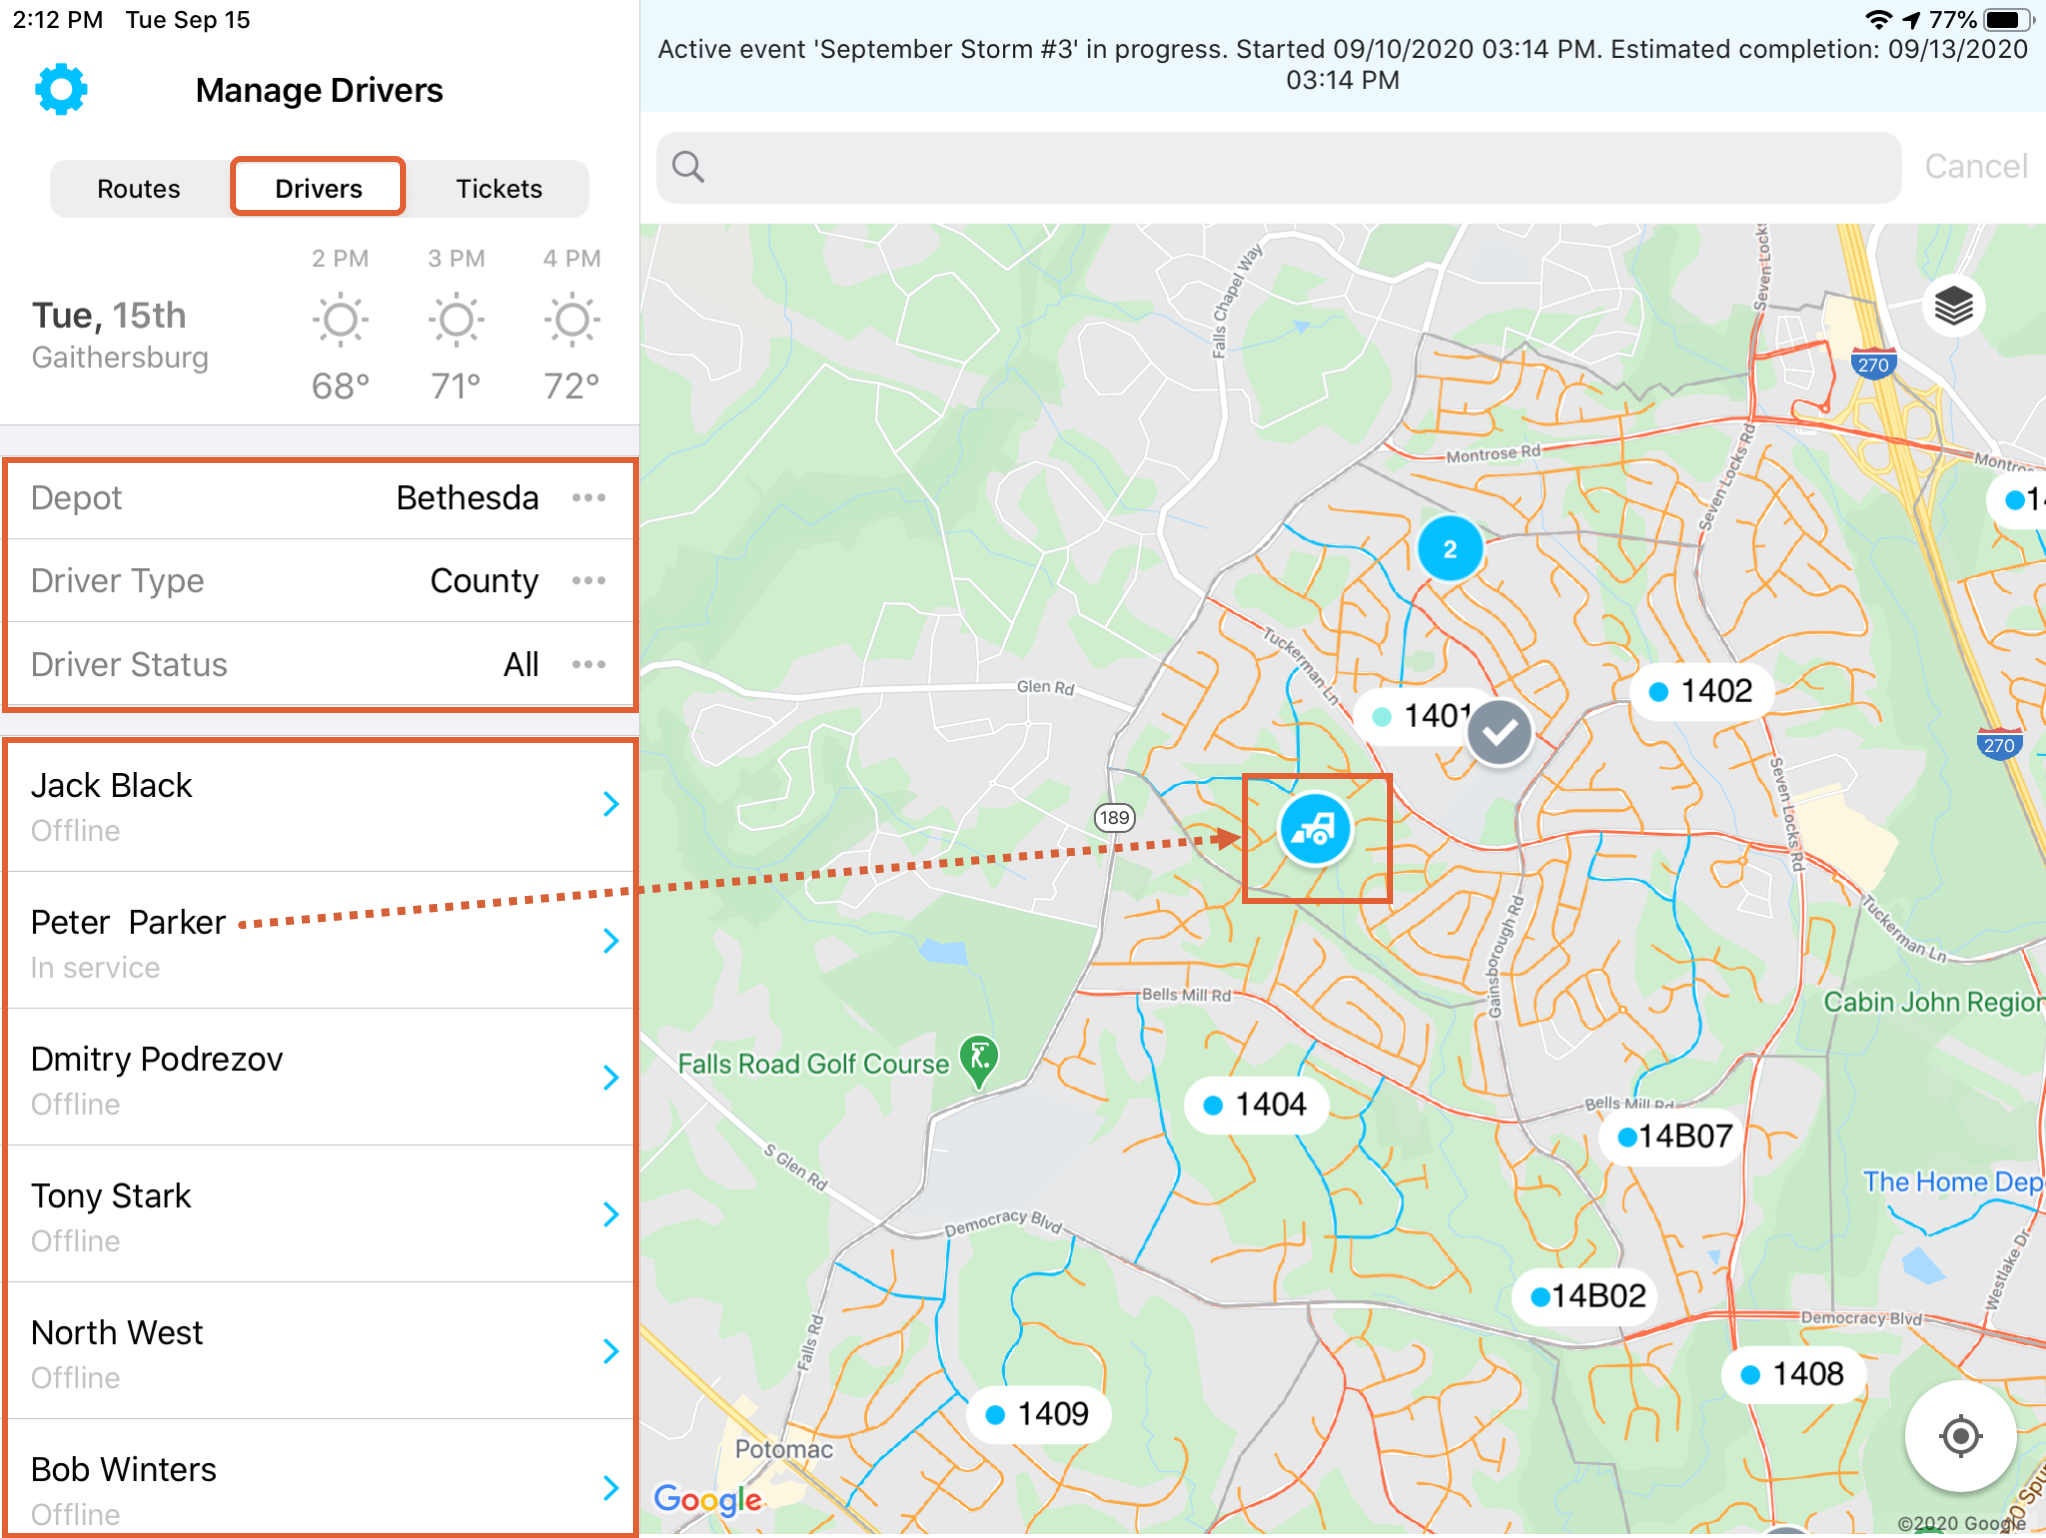
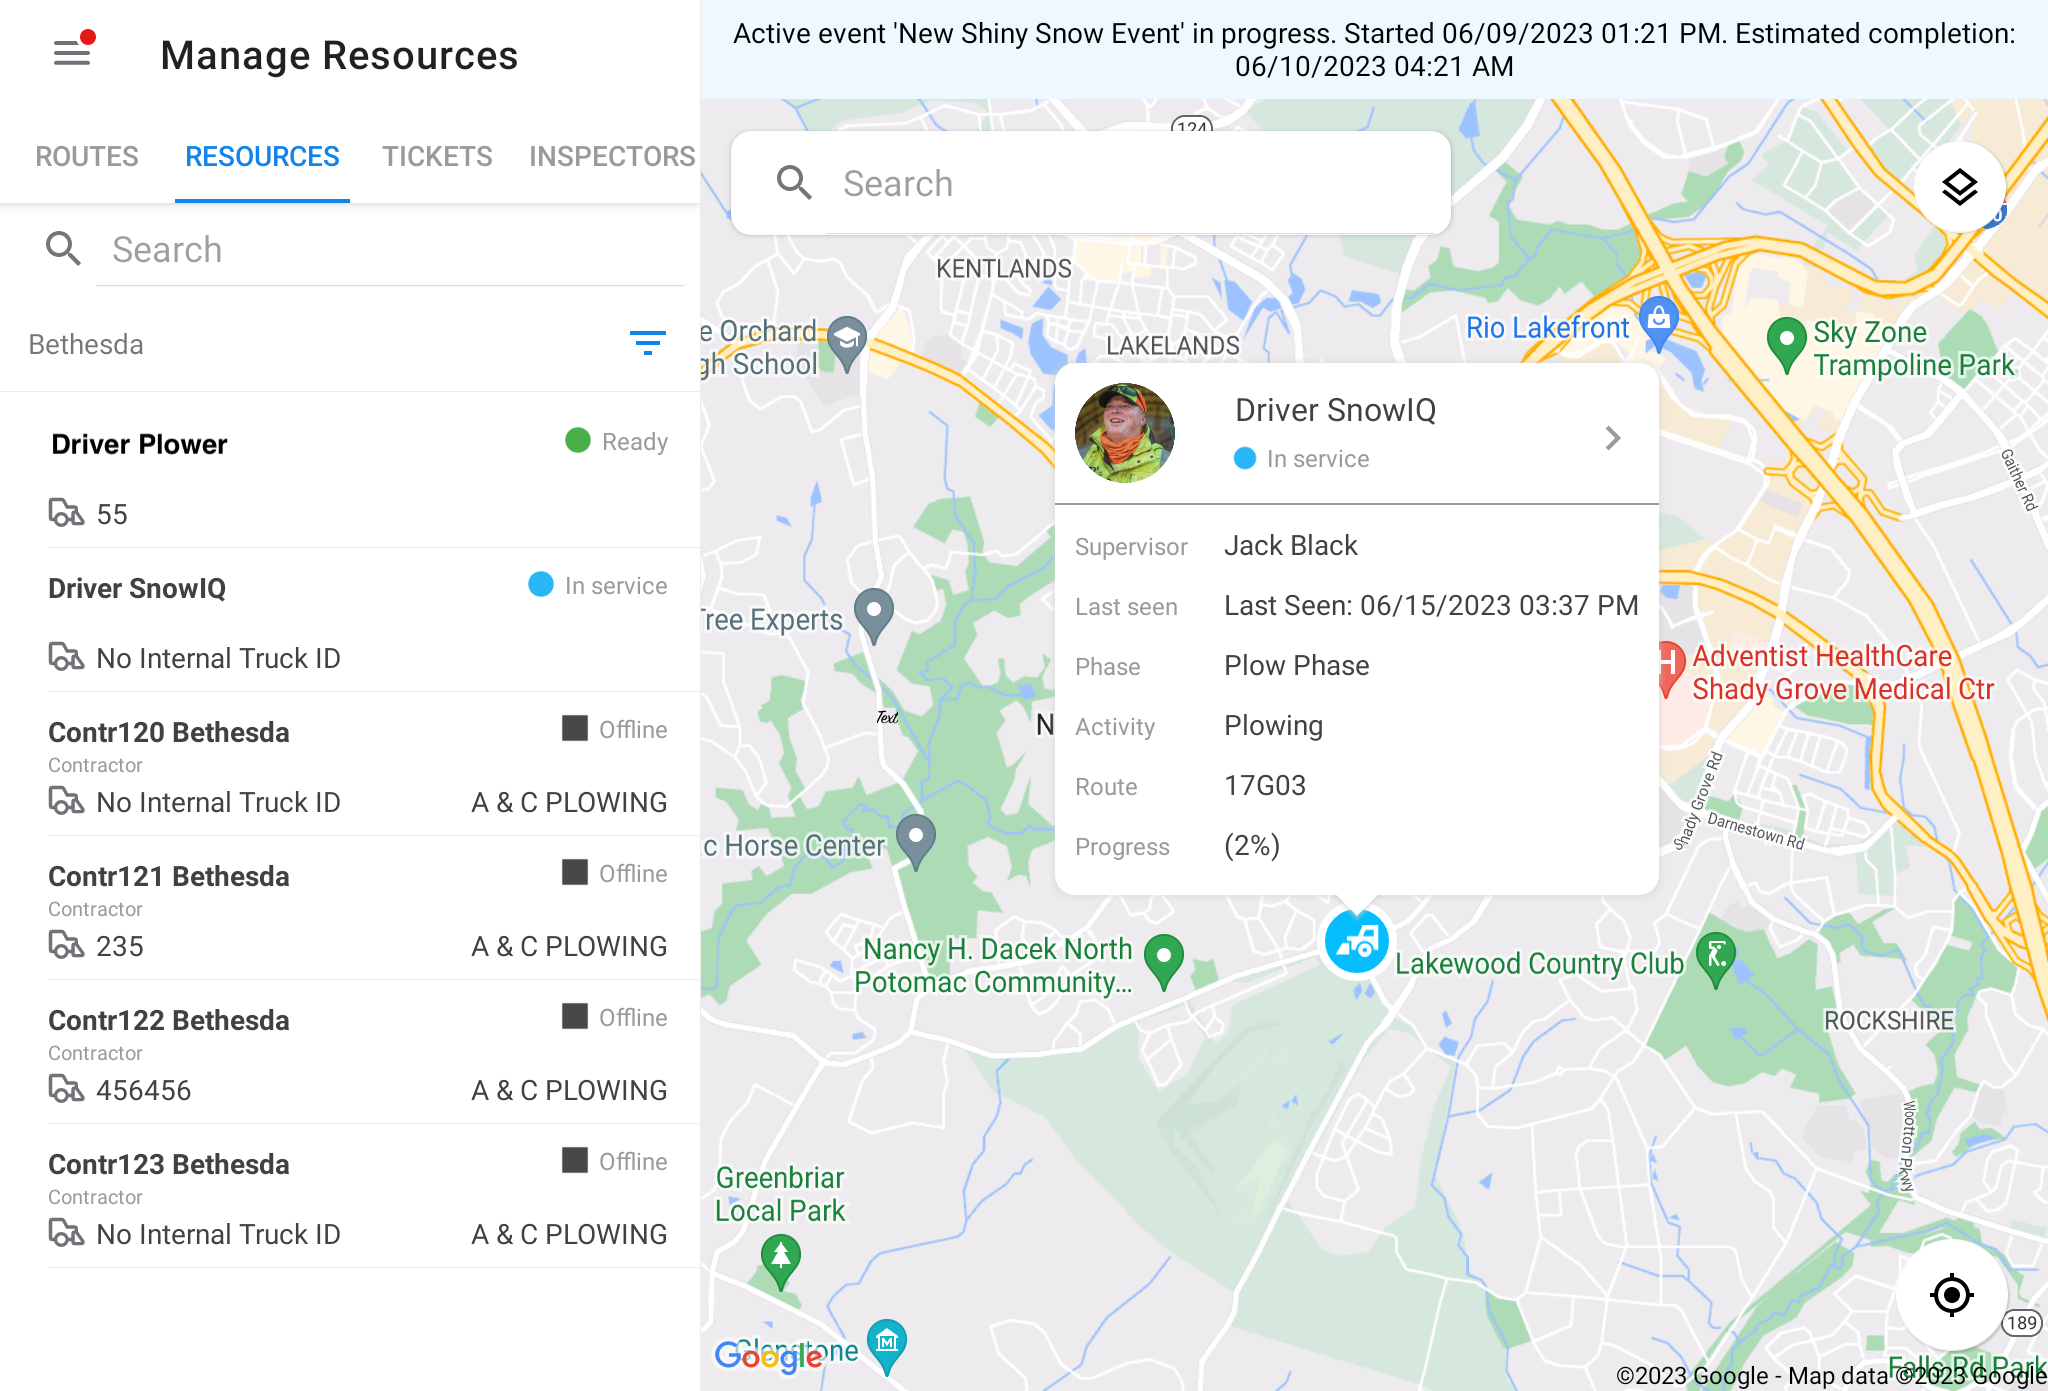
sa_tickets_tab

diff --git a/sa-drivers-tab-view.md b/sa-drivers-tab-view.md
@@ -1,6 +1,6 @@
 ---
 layout: page
-title: Drivers Tab View
+title: Resources Tab View
 author: EastBanc Technologies
 name: EastBanc Technologies
 email: contact@eastbanctech.com
@@ -9,21 +9,18 @@ nav_order: 5
 platform: true
 comments: true
 ---
-<section id="Drivers-Tab-View" markdown="1">
-# Driver's Tab View
+<section id="Resources-Tab-View" markdown="1">
+# Resources Tab View
 
-The Drivers panel displays a list of drivers active in the system with their names and current statuses. The driver marker is displayed on the map (color coded based on status). Above the list there is a set of filters: by Depot, Route Type, and Route Status. Pressing on the name of the driver in the panel on the left takes the user to the [Driver Details](#Driver-Details)
+The Resources panel displays a list of resources active in the system with their names and current statuses. The driver marker is displayed on the map (color coded based on status). Above the list there is a set of filters: by Depot, Route Type, and Route Status. Pressing on the name of the driver in the panel on the left takes the user to the [Driver Details](#Driver-Details)
 
 <img src="images/supervisor/sa-drivers-tab-view/drivers-tab-android.png" class="android" data-lightbox="1" />
 <img src="images/supervisor/sa-drivers-tab-view/drivers-tab-ios.png" class="ios" data-lightbox="2" />
 
-Pressing on the driver marker on the map (the snowplow icon) produces a prompt on the map with additional driver details, as seen below. Pressing on the name in the prompt takes the user to the **Driver Details panel**
+Pressing on the Resource marker on the map (the snowplow icon) produces a prompt on the map with additional Resource details, as seen below. Pressing on the name in the prompt takes the user to the **Resource Details panel**
 
-<img src="images/supervisor/sa-drivers-tab-view/drivers-tab1-android.png" class="android" data-lightbox="3" />
-<img src="images/supervisor/sa-drivers-tab-view/drivers-tab1-ios.png" class="ios" data-lightbox="4" />
-
-<section id="Drivers-Filters" markdown="1">
-## Drivers Filters
+<section id="Resources-Filters" markdown="1">
+## Resources Filters
 
 Using the filters above the drivers list allows users to narrow down what is seen on the map. Setting a filter can add or remove map elements such as driver types or drivers with different statuses. The filters and their options are listed below:
 
@@ -33,19 +30,19 @@ Using the filters above the drivers list allows users to narrow down what is see
 The depot filter defaults to the depot the Supervisor is assigned to and only the drivers associated with that depot will be displayed. 
 </section>
 
-<section id="Driver-Type" markdown="1">
-### Driver Type
+<section id="Resource-Type" markdown="1">
+### Resource Type
 
 The Route Type filter allows users to filter by County or Contractor employees. County employees can be found on the map with a circular snowplow marker <img src="images/supervisor/sa-drivers-tab-view/driver-logo-android.png" class="android" style="min-width:18px; width:18px; border:none;"/><img src="images/supervisor/sa-drivers-tab-view/driver-logo-ios.png" class="ios" style="min-width:18px; width:18px; border:none;"/> while contractors will be found with a square marker <img src="images/supervisor/sa-drivers-tab-view/driver-logo1-android.png" class="android" style="min-width:18px; width:18px; border:none;"/><img src="images/supervisor/sa-drivers-tab-view/driver-logo1-ios.png" class="ios" style="min-width:18px; width:18px; border:none;"/>.
 </section>
 
-<section id="Driver-Status" markdown="1">
-### Driver Status
+<section id="Resource-Status" markdown="1">
+### Resource Status
 
-The Driver Status filter allows users to view drivers with a specific status only.
+The Resource Status filter allows users to view Resources with a specific status only.
 
-* Logged in (Contractor Only) –  is for Contract Drivers who have logged into the system, but have not accepted any new assignments or working on any active assignments. This status is for drivers awaiting a new status after logging in. (This status means no payment is being calculated for the driver, whether they just logged on or have been released.)
-* Standby (Contractor Only) – is for Contract drivers who are in position, awaiting assignment. This status is applied manually to a driver by their supervisor. (This status allows for calculation of payment by half of their rate.)   
+* Logged in (Contractor Only) –  is for Contract Resources who have logged into the system, but have not accepted any new assignments or working on any active assignments. This status is for drivers awaiting a new status after logging in. (This status means no payment is being calculated for the driver, whether they just logged on or have been released.)
+* Standby (Contractor Only) – is for Contract Resources who are in position, awaiting assignment. This status is applied manually to a driver by their supervisor. (This status allows for calculation of payment by half of their rate.)   
 * Ready – is the default status for County Drivers after logging on. For Contract Drivers, it is applied manually by their supervisor to indicate that the driver is ready to begin work on another assignment. (This status allows for calculation of payment in the Contract Driver's full rate.)
 * Address Assignment – is for Drivers working on an address specific assignment.
 * In Service – is for Drivers who have accepted and started an assignment on a route.
@@ -54,17 +51,17 @@ The Driver Status filter allows users to view drivers with a specific status onl
 </section>
 </section>
 
-<section id="Driver-Details" markdown="1">
-## Driver Details
+<section id="Resource-Details" markdown="1">
+## Resource Details
 
-The Driver Details panel focuses on one selected driver both on the map and on the left-hand panel and all the details associated with that driver: Active Assignments, if any, and their progress, history of previous assignments and future ones. Here, the Supervisor is also able to 
+The Resource Details panel focuses on one selected driver both on the map and on the left-hand panel and all the details associated with that driver: Active Assignments, if any, and their progress, history of previous assignments and future ones. Here, the Supervisor is also able to 
 1. 'Pause' (or 'Resume' not shown) an Active Assignment, which would notify the Driver in the Driver App that their Assignment has been paused.  
-1. 'Add Task' to the selected Driver, which would notify the Driver in the Driver App. 
+1. 'Add Task' to the selected Resource, which would notify the Driver in the Driver App. 
 
 <img src="images/supervisor/sa-drivers-tab-view/driver-details-android.png" class="android" data-lightbox="5" />
 <img src="images/supervisor/sa-drivers-tab-view/driver-details-ios.png" class="ios" data-lightbox="6" />
 
-Clicking on the 'i' (information) icon produces the 'Detail information' profile page of the driver with the driver's contact information, as seen below:
+Clicking on the 'i' (information) icon produces the 'Detail information' profile page of the Resource with the driver's contact information, as seen below:
 
 <img src="images/supervisor/sa-drivers-tab-view/driver-details1-android.png" class="android" data-lightbox="7" />
 <img src="images/supervisor/sa-drivers-tab-view/driver-details1-ios.png" class="ios" data-lightbox="8" />

diff --git a/sa-tickets-tab.md b/sa-tickets-tab.md
@@ -14,15 +14,12 @@ comments: true
 
 When Admin sends a new ticket to a Supervisor it will be appear as a ticket count on the Ticket tab for the Supervisor, as seen below.
 
-<img src="images/supervisor/sa-tickets-tab/tickets-tab-android.png" class="android width-sm" />
-<img src="images/supervisor/sa-tickets-tab/tickets-tab-ios.png" class="ios width-sm" />
-
 After selecting the Tickets tab, the Tickets panel displays a list of tickets and a visual on the map of markers that represent tickets and their statuses to give users an indicator of where the tickets are located in the service area. Above the list, there is a set of filters: by Depot, Route, Ticket Status, and Ticket Type. 
    
 A new Ticket is notated with a 'New' tag and identified with a red asterisk marker on the map on the right. A checkmark on any type of ticket indicates that the ticket is closed.
 
-<img src="images/supervisor/sa-tickets-tab/tickets-tab1-android.png" class="android" data-lightbox="3" />
-<img src="images/supervisor/sa-tickets-tab/tickets-tab1-ios.png" class="ios" data-lightbox="4" />
+<img src="images/supervisor/sa-tickets-tab/tickets-tab-android.png" class="android" data-lightbox="3" />
+<img src="images/supervisor/sa-tickets-tab/tickets-tab-ios.png" class="ios" data-lightbox="4" />
 
 <section id="Ticket-Filters" markdown="1">
 ## Ticket Filters
@@ -76,7 +73,7 @@ A Checkmark on either type of ticket indicates that the ticket is closed.
 <section id="Ticket-Details" markdown="1">
 ## Ticket Details
 
-Selecting a ticket label from the list focuses on that single ticket on the map and brings up the 'Ticket details' panel on the left. The panel includes all the relevant ticket information and allows the Supervisor to 'Assign drivers' to that ticket. 
+Selecting a ticket label from the list focuses on that single ticket on the map and brings up the 'Ticket details' panel on the left. The panel includes all the relevant ticket information and allows the Supervisor to 'Assign Resources' to that ticket. 
 
 <img src="images/supervisor/sa-tickets-tab/tickets-details-android.png" class="android" data-lightbox="7" />
 <img src="images/supervisor/sa-tickets-tab/tickets-details-ios.png" class="ios" data-lightbox="8" />
